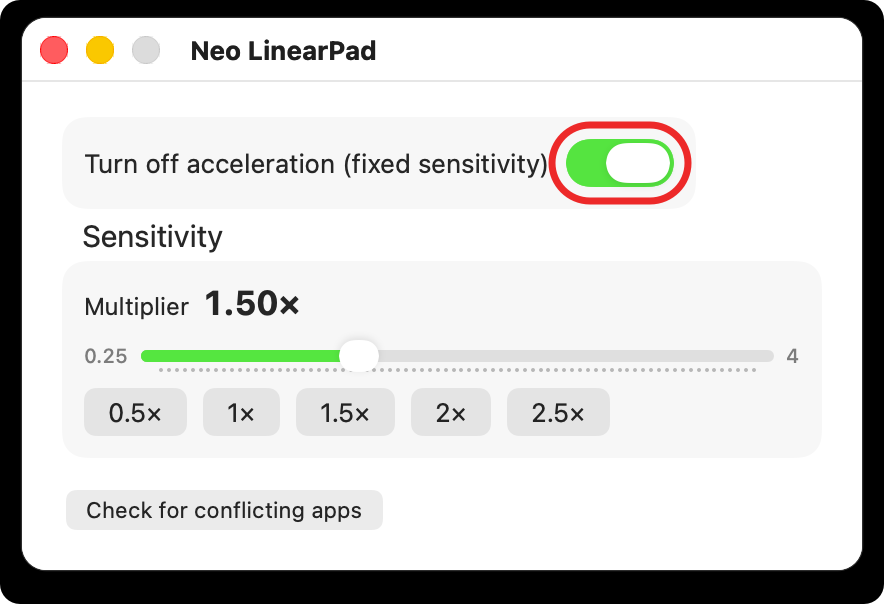
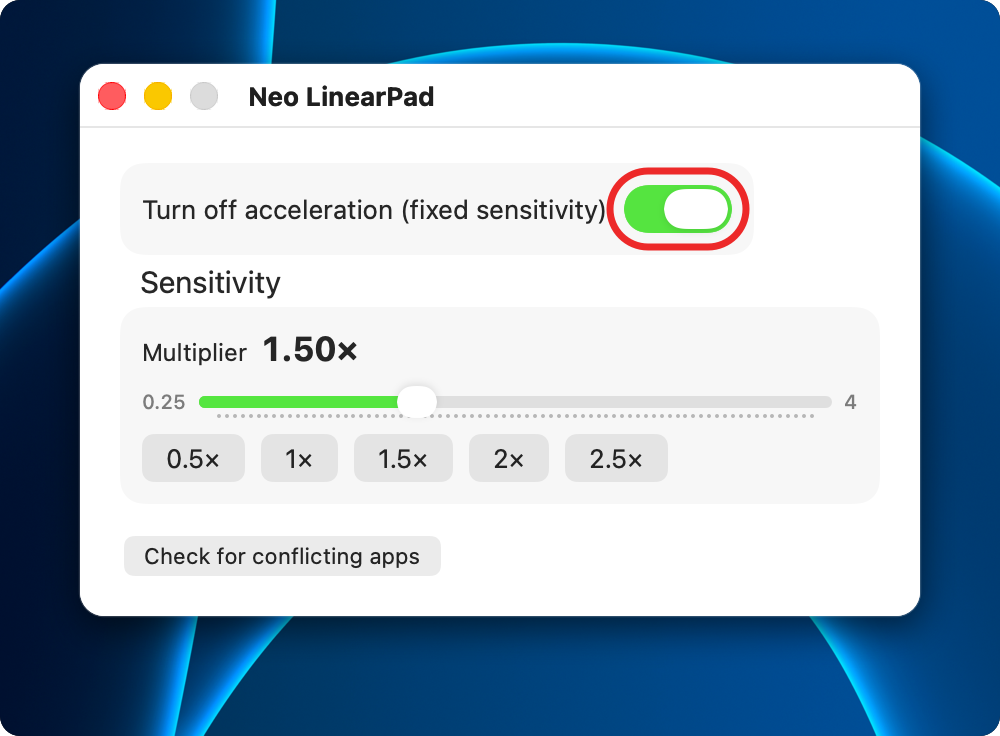
Install step 5: the app window on the blue desktop picture, like step 3

diff --git a/en/index.html b/en/index.html
@@ -59,7 +59,7 @@
             </li>
             <li>Click the <span class="notranslate" translate="no">Neo LinearPad</span> icon in the menu bar at the top right of the screen, then turn on the switch.
               <img src="../assets/guide/install-5-menubar.png?v=5" alt="The menu bar icon" loading="lazy">
-              <img src="../assets/guide/en/install-5-switch.png?v=1" alt="Turning on the switch" loading="lazy">
+              <img src="../assets/guide/en/install-5-switch.png?v=2" alt="Turning on the switch" loading="lazy">
             </li>
           </ol>
         </div>

diff --git a/ja/index.html b/ja/index.html
@@ -60,7 +60,7 @@
             </li>
             <li>PC右上に出るアイコンをクリックし、スイッチをオンにします。
               <img src="../assets/guide/install-5-menubar.png?v=5" alt="メニューバーのアイコン" loading="lazy">
-              <img src="../assets/guide/install-5-switch.png?v=6" alt="スイッチをオンにする" loading="lazy">
+              <img src="../assets/guide/install-5-switch.png?v=7" alt="スイッチをオンにする" loading="lazy">
             </li>
           </ol>
         </div>
